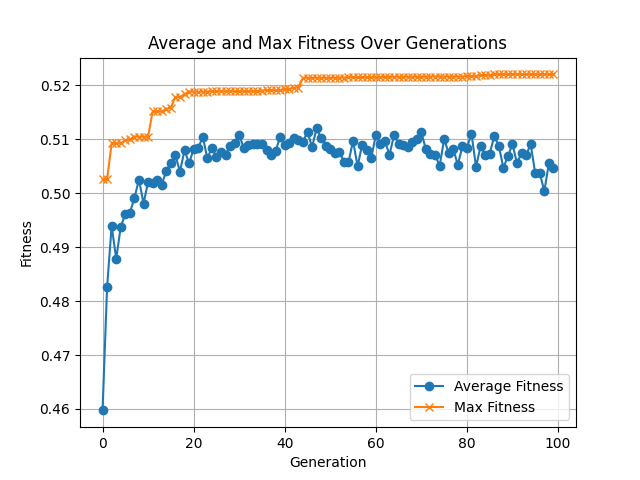
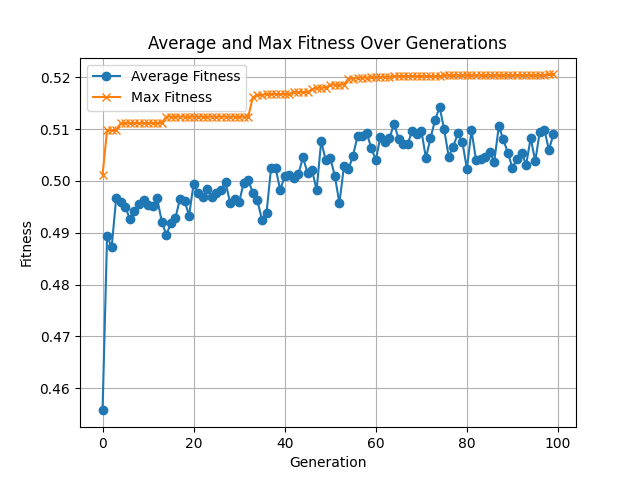
added comments

diff --git a/fitness.py b/fitness.py
@@ -3,10 +3,12 @@ import time
 from tree.tree import Tree
 from tree.tree_node import TreeNode
 
+# Evaluates the fitness of an individual tree
 def fitness_worker(args: tuple[Tree, list[int], list[list[float]], list[str]]) -> tuple[float, float, float]:
     individual, train_target_outputs, train_data, variables = args
     return fitness(individual, train_target_outputs, train_data, variables)
 
+# Calculates fitness, prediction time, and loss time for an individual
 def fitness(individual: Tree, target_outputs: list[int], data: list[list[float]], variables: list[str]) -> tuple[float, float, float]:
     t_predictions_start = time.time()
     predictions = get_predictions(individual, data, variables)
@@ -23,6 +25,7 @@ def fitness(individual: Tree, target_outputs: list[int], data: list[list[float]]
 
     return _fitness(loss, t_predictions_duration, t_loss_duration, size)
 
+# Generates predictions for the given data using the provided tree
 def get_predictions(tree: Tree, data: list[list[float]], variables: list[str]) -> list[float]:
     predictions = []
     var_index = {var: i for i, var in enumerate(variables)}
@@ -59,6 +62,7 @@ def cross_entropy_loss(predictions: list[float], targets: list[float]) -> float:
         total += -(y * math.log(p) + (1 - y) * math.log(1 - p))
     return total / len(predictions)
 
+# Calculates the fitness value with a penalty for tree size
 def _fitness(loss: float, prediction_time: float, loss_time: float, size: int) -> tuple[float, float, float]:
     """
     Base fitness from loss, then penalise large trees.
@@ -73,9 +77,11 @@ def _fitness(loss: float, prediction_time: float, loss_time: float, size: int) -
     fitness_value = base * penalty
     return fitness_value, prediction_time, loss_time
 
+# Computes the average fitness of the population
 def average_fitness(fitness_scores: list[float], population: list[Tree]) -> float:
     return sum(fitness_scores) / len(population)
 
+# Finds the maximum fitness and corresponding individual in the population
 def max_fitness(fitness_scores: list[float], population: list[Tree]) -> tuple[float, Tree | None]:
     max_fit, max_individual = float('-inf'), None
     for score, individual in zip(fitness_scores, population):
@@ -84,11 +90,13 @@ def max_fitness(fitness_scores: list[float], population: list[Tree]) -> tuple[fl
             max_individual = individual
     return max_fit, max_individual
 
+# Returns the population sorted by fitness in descending order
 def get_population_sorted_by_fitness(population: list[Tree], fitness_scores: list[float]) -> list[tuple[Tree, float]]:
     paired = list(zip(population, fitness_scores))
     paired.sort(key=lambda x: x[1], reverse=True)
     return paired
 
+# Recursively evaluates the tree for a given data row
 def evaluate_tree(node: TreeNode, row: list[float], var_index: dict[str, int]) -> float:
     if node is None:
         return 0
@@ -103,6 +111,7 @@ def evaluate_tree(node: TreeNode, row: list[float], var_index: dict[str, int]) -
 
     op = node.value
 
+    # Handle unary operations
     if op in ["abs(x)", "log(|x| + 1)", "tanh", "relu"]:
         x = evaluate_tree(node.left, row, var_index)
 
@@ -118,6 +127,7 @@ def evaluate_tree(node: TreeNode, row: list[float], var_index: dict[str, int]) -
         except:
             return 0
 
+    # Handle binary operations   
     left_value = evaluate_tree(node.left, row, var_index)
     right_value = evaluate_tree(node.right, row, var_index)
 

diff --git a/evolve/crossover.py b/evolve/crossover.py
@@ -3,29 +3,38 @@ import copy
 from tree.tree import Tree
 from config import PARAMETERS
 
+# Determines if crossover should be applied based on the crossover rate
 def should_apply_crossover(crossover_rate=1.0) -> bool:
     return random.random() <= crossover_rate
 
+# Selects two parents randomly from the parents pool
 def choose_parents(parents_pool: list[Tree]) -> tuple[Tree, Tree]:
     mrParent = random.choice(parents_pool)
     msParent = random.choice(parents_pool)
     return mrParent, msParent
 
+# Performs crossover between two parent trees to produce two offspring trees
 def crossover(mrParent: Tree, msParent: Tree) -> tuple[Tree, Tree]:
+    # Deep copy parents to create offspring
     awesomeSon = copy.deepcopy(mrParent)
     greatDaughter = copy.deepcopy(msParent)
 
+    # Get maximum allowed depth from parameters
     max_depth_allowed = PARAMETERS["max_tree_height"]
 
+    # Select random nodes from each parent
     node1 = awesomeSon.random_node()
     node2 = greatDaughter.random_node()
 
+    # Find parents of the selected nodes
     parent1 = awesomeSon.find_parent(node1)
     parent2 = greatDaughter.find_parent(node2)
 
+    # Keep copies of the original nodes in case we need to revert
     old_node1 = copy.deepcopy(node1)
     old_node2 = copy.deepcopy(node2)
 
+    # Swap node1 into awesomeSon
     if parent1 is None:
         awesomeSon.root = node2
     else:
@@ -34,6 +43,7 @@ def crossover(mrParent: Tree, msParent: Tree) -> tuple[Tree, Tree]:
         else:
             parent1.right = node2
 
+    # Swap node2 into awesomeSon
     if parent2 is None:
         greatDaughter.root = node1
     else:
@@ -42,6 +52,7 @@ def crossover(mrParent: Tree, msParent: Tree) -> tuple[Tree, Tree]:
         else:
             parent2.right = node1
 
+    # Ensure offspring do not exceed max depth
     if awesomeSon.depth() > max_depth_allowed:
         if parent1 is None:
             awesomeSon.root = old_node1
@@ -51,6 +62,7 @@ def crossover(mrParent: Tree, msParent: Tree) -> tuple[Tree, Tree]:
             else:
                 parent1.right = old_node1
 
+    # Ensure offspring do not exceed max depth
     if greatDaughter.depth() > max_depth_allowed:
         if parent2 is None:
             greatDaughter.root = old_node2
@@ -62,18 +74,22 @@ def crossover(mrParent: Tree, msParent: Tree) -> tuple[Tree, Tree]:
 
     return awesomeSon, greatDaughter
 
+# Runs the crossover process to generate children from the parents pool
 def run_crossover(parents_pool: list[Tree], num_children: int, crossover_rate=1.0) -> list[Tree]:
     children = []
 
+    # Continue until we have the desired number of children
     while len(children) < num_children:
         mrParent, msParent = choose_parents(parents_pool)
 
+        # Apply crossover based on the crossover rate
         if should_apply_crossover(crossover_rate):
             awesomeSon, greatDaughter = crossover(mrParent, msParent)
         else:
             awesomeSon = copy.deepcopy(mrParent)
             greatDaughter = copy.deepcopy(msParent)
 
+        # Add children to the list if we haven't reached the desired count
         children.append(awesomeSon)
         if len(children) < num_children:
             children.append(greatDaughter)

diff --git a/data_loader.py b/data_loader.py
@@ -2,6 +2,7 @@ import glob
 import pandas as pd
 from config import ROLLING_COLUMNS, TRAIN_SEASONS, TRAIN_CURRENT, TEST_SEASON
 
+# Loads all seasons data and processes it for training and testing
 def load_all_games_data(path: str) -> pd.DataFrame:
     """
     Loads all games data from all seasons' CSV files and returns a time ordered DataFrame. 
@@ -20,6 +21,7 @@ def load_all_games_data(path: str) -> pd.DataFrame:
 
     return df
 
+# Adds last 10 rolling mean features
 def add_last_10_features(df: pd.DataFrame, rolling_columns: list[str]) -> pd.DataFrame:
     """
     Adds last 10 rolling mean features.
@@ -31,6 +33,7 @@ def add_last_10_features(df: pd.DataFrame, rolling_columns: list[str]) -> pd.Dat
 
     return df
 
+# Adds 3 year rolling mean features
 def add_3_year_features(df: pd.DataFrame, rolling_columns: list[str]) -> pd.DataFrame:
     """
     Adds 3 season rolling mean features.
@@ -49,6 +52,7 @@ def add_3_year_features(df: pd.DataFrame, rolling_columns: list[str]) -> pd.Data
     df = pd.concat(df_3_year).sort_values(["teamId", "seasonNumber", "gameId"])
     return df
 
+# Enforces minimum games played to have last 10 games
 def enforce_min_games(df: pd.DataFrame, min_games: int = 10) -> pd.DataFrame:
     """
     Removes rows that do not have enough past games to form last 10.
@@ -56,6 +60,7 @@ def enforce_min_games(df: pd.DataFrame, min_games: int = 10) -> pd.DataFrame:
     df["games_played"] = df.groupby(["teamId", "seasonNumber"]).cumcount()
     return df[df["games_played"] >= min_games].reset_index(drop=True)
 
+# Splits data into train and test sets by season
 def split_train_test_by_season(df: pd.DataFrame, train_seasons: list[int], train_current: int, test_season: int) -> tuple[pd.DataFrame, pd.DataFrame]:
     """
     Makes a train test split.
@@ -65,6 +70,7 @@ def split_train_test_by_season(df: pd.DataFrame, train_seasons: list[int], train
 
     return train_df, test_df
 
+# Builds match rows from team rows
 def build_matches(df: pd.DataFrame, feature_columns: list[str]) -> pd.DataFrame:
     """
     Converts team rows into Team A vs Team B matches rows.
@@ -83,6 +89,7 @@ def build_matches(df: pd.DataFrame, feature_columns: list[str]) -> pd.DataFrame:
 
     return match
 
+# Builds delta features for both last 10 and 3 year.
 def build_delta_features(matches: pd.DataFrame, rolling_columns: list[str]) -> tuple[pd.DataFrame, list[str]]:
     """
     Builds delta features for both last 10 and 3 year.
@@ -99,6 +106,7 @@ def build_delta_features(matches: pd.DataFrame, rolling_columns: list[str]) -> t
 
     return matches, delta_columns
 
+# Builds the final matrix tables for training and testing
 def build_matrix_tables(train_matches: pd.DataFrame, test_matches: pd.DataFrame, delta_columns: list[str]) -> tuple[pd.DataFrame, pd.DataFrame]:
     """
     Returns X and y for training and testing.
@@ -114,6 +122,7 @@ def build_matrix_tables(train_matches: pd.DataFrame, test_matches: pd.DataFrame,
 
     return train, test
 
+# Loads NBA data and processes it into train and test sets
 def load_nba_data(seasons_path: str) -> tuple[list[str], list, list]:
     """
     Converts the raw nba data into train and test sets.

diff --git a/evolve/mutation.py b/evolve/mutation.py
@@ -9,7 +9,7 @@ def mutate(individual: Tree, max_depth=3) -> Tree:
     """
     Improved mutation:
     - 70% chance: small local mutation (operator / constant / variable)
-    - 30% chance: subtree replacement (your original behavior)
+    - 30% chance: subtree replacement
     """
     mutant = copy.deepcopy(individual)
 
@@ -31,7 +31,6 @@ def mutate(individual: Tree, max_depth=3) -> Tree:
             return mutant
 
         # 20% chance: replace leaf entirely
-        # (similar to your original terminate-branch behavior)
         node.value = (
             random.choice(individual.variables)
             if random.random() < 0.5
@@ -46,7 +45,7 @@ def mutate(individual: Tree, max_depth=3) -> Tree:
         node.value = random.choice(OPERATIONS)
         return mutant
 
-    # --- STRUCTURAL MUTATION (macro-mutation, your original behavior) ---
+    # --- STRUCTURAL MUTATION (macro-mutation) ---
     # Replace subtree, but avoid giant random trees
     # Keep it small and controlled
     allowed_remaining = max_depth - node.current_depth
@@ -70,10 +69,8 @@ def mutate(individual: Tree, max_depth=3) -> Tree:
 
     return mutant
 
+# Runs mutations on a list of children based on mutation rate
 def run_mutations(children: list[Tree], max_depth: int, mutation_rate=0.1) -> list[Tree]:
-    """
-    Same structure as original: apply mutation independently to each child.
-    """
     mutated = []
 
     for child in children:

diff --git a/selection/roulette.py b/selection/roulette.py
@@ -2,7 +2,9 @@ import random
 from selection.selection_interface import ISelection
 from tree.tree import Tree
 
+# Implements roulette wheel selection for genetic programming
 class RouletteSelection(ISelection):
+    # Creates a parents pool using roulette wheel selection
     def create_parents_pool(self, population: list[Tree], fitness_scores: list[float]) -> list[Tree]:
         if len(population) != len(fitness_scores):
             raise ValueError("Population and fitness scores must have the same length.")
@@ -17,6 +19,7 @@ class RouletteSelection(ISelection):
             parents_pool.append(parent)
         return parents_pool
 
+    # Constructs the roulette wheel based on fitness scores
     def _make_wheel(self, population: list[Tree], fitness_scores: list[float]) -> list[tuple[Tree, float]]:
         total = sum(fitness_scores)
 
@@ -28,6 +31,7 @@ class RouletteSelection(ISelection):
 
         return wheel
 
+    # Selects one individual from the wheel based on probabilities
     def _select_one(self, wheel: list[tuple[Tree, float]]) -> Tree:
         r = random.random()
         cumulative = 0.0

diff --git a/selection/tournament.py b/selection/tournament.py
@@ -2,10 +2,12 @@ import random
 from selection.selection_interface import ISelection
 from tree.tree import Tree
 
+# Implements tournament selection for genetic programming
 class TournamentSelection(ISelection):
     def __init__(self, tournament_size: int = 3):
         self.tournament_size = tournament_size
 
+    # Creates a parents pool using tournament selection
     def create_parents_pool(self, population: list[Tree], fitness_scores: list[float]) -> list[Tree]:
         if len(population) != len(fitness_scores):
             raise ValueError("Population and fitness scores must have the same length.")
@@ -21,7 +23,8 @@ class TournamentSelection(ISelection):
             parents_pool.append(parent)
 
         return parents_pool
-
+    
+    # Tournament selection: choose k at random, pick the best.
     def _select_one(self, pop_with_fitness: list[tuple[Tree, float]]) -> Tree:
         """Tournament selection: choose k at random, pick the best."""
         tournament = random.sample(pop_with_fitness, self.tournament_size)

diff --git a/plot_results.py b/plot_results.py
@@ -1,6 +1,7 @@
 import os
 import matplotlib.pyplot as plt
 
+# Plots the average and maximum fitness history over generations.
 def plot_average_and_max_fitness_history(average_fitness_history: list, max_fitness_history: list) -> None:
     os.makedirs("results", exist_ok=True)
 
@@ -16,6 +17,7 @@ def plot_average_and_max_fitness_history(average_fitness_history: list, max_fitn
     plt.show()
     plt.close()
 
+# Plots the ROC curve and calculates AUC for test results.
 def plot_roc_auc_for_test_results(predictions: list[float], targets: list[int]) -> None:
     """
     Plots the ROC (Receiver Operating Characteristic) curve and calculates the AUC (Area Under Curve) for test results.

diff --git a/config.py b/config.py
@@ -1,3 +1,4 @@
+# ---- GP PARAMETER DEFINITIONS ----
 PARAMETERS = {
     "population_size": 150,
     "max_tree_height": 8,
@@ -20,11 +21,14 @@ ROLLING_COLUMNS = [
     "assistRatio"
 ]
 
+#---- DATA SPLIT DEFINITIONS ----
 TRAIN_SEASONS  = [2021, 2022, 2023]
 TRAIN_CURRENT = 2024
 TEST_SEASON   = 2025
 
+#---- DATA PATHS ----
 TABLE_PATH = "data/*/*_table1.csv"
 
+# ---- GP DEFINITIONS ----
 OPERATIONS = ['+', '-', '*', '/', 'abs(x)', 'log(|x| + 1)', 'tanh', 'relu']
 TERMINALS = ['var', 'const']

diff --git a/tree/tree.py b/tree/tree.py
@@ -2,6 +2,7 @@ import random
 from tree.tree_node import TreeNode
 from config import OPERATIONS, TERMINALS, ROLLING_COLUMNS
 
+# Define unary and binary operations
 UNARY_OPS = ["abs(x)", "log(|x| + 1)", "tanh", "relu"]
 BINARY_OPS = ['+', '-', '*', '/']
 
@@ -122,4 +123,3 @@ class Tree:
             return node.current_depth
         return max(self._compute_depth(node.left),
                    self._compute_depth(node.right))
-

diff --git a/tree/tree_node.py b/tree/tree_node.py
@@ -1,9 +1,11 @@
 class TreeNode:
+    # Initializes a tree node with a value and its current depth
     def __init__(self, value, current_depth):
         self.value = value
         self.left = None
         self.right = None
         self.current_depth = current_depth
 
+    # Checks if the node is a leaf node
     def is_leaf(self) -> bool:
         return not self.left and not self.right

diff --git a/main.py b/main.py
@@ -30,6 +30,7 @@ if __name__ == "__main__":
     t_setup_end = time.time()
     print(f"Data loading and population initialization took {t_setup_end - t_setup_start:.2f} seconds.")
 
+    # Evolution loop
     for generation in range(1, PARAMETERS["max_generations"] + 1):
         print(f"Generation {generation}")
         t_gen_start = time.time()

diff --git a/population.py b/population.py
@@ -3,6 +3,7 @@ from tree.tree import Tree
 def make_population(size: int, max_tree_height: int, variables: list[str]) -> list:
     population = []
 
+    # Distributes tree heights evenly across the population
     base = size // max_tree_height
     remainder = size % max_tree_height
 
